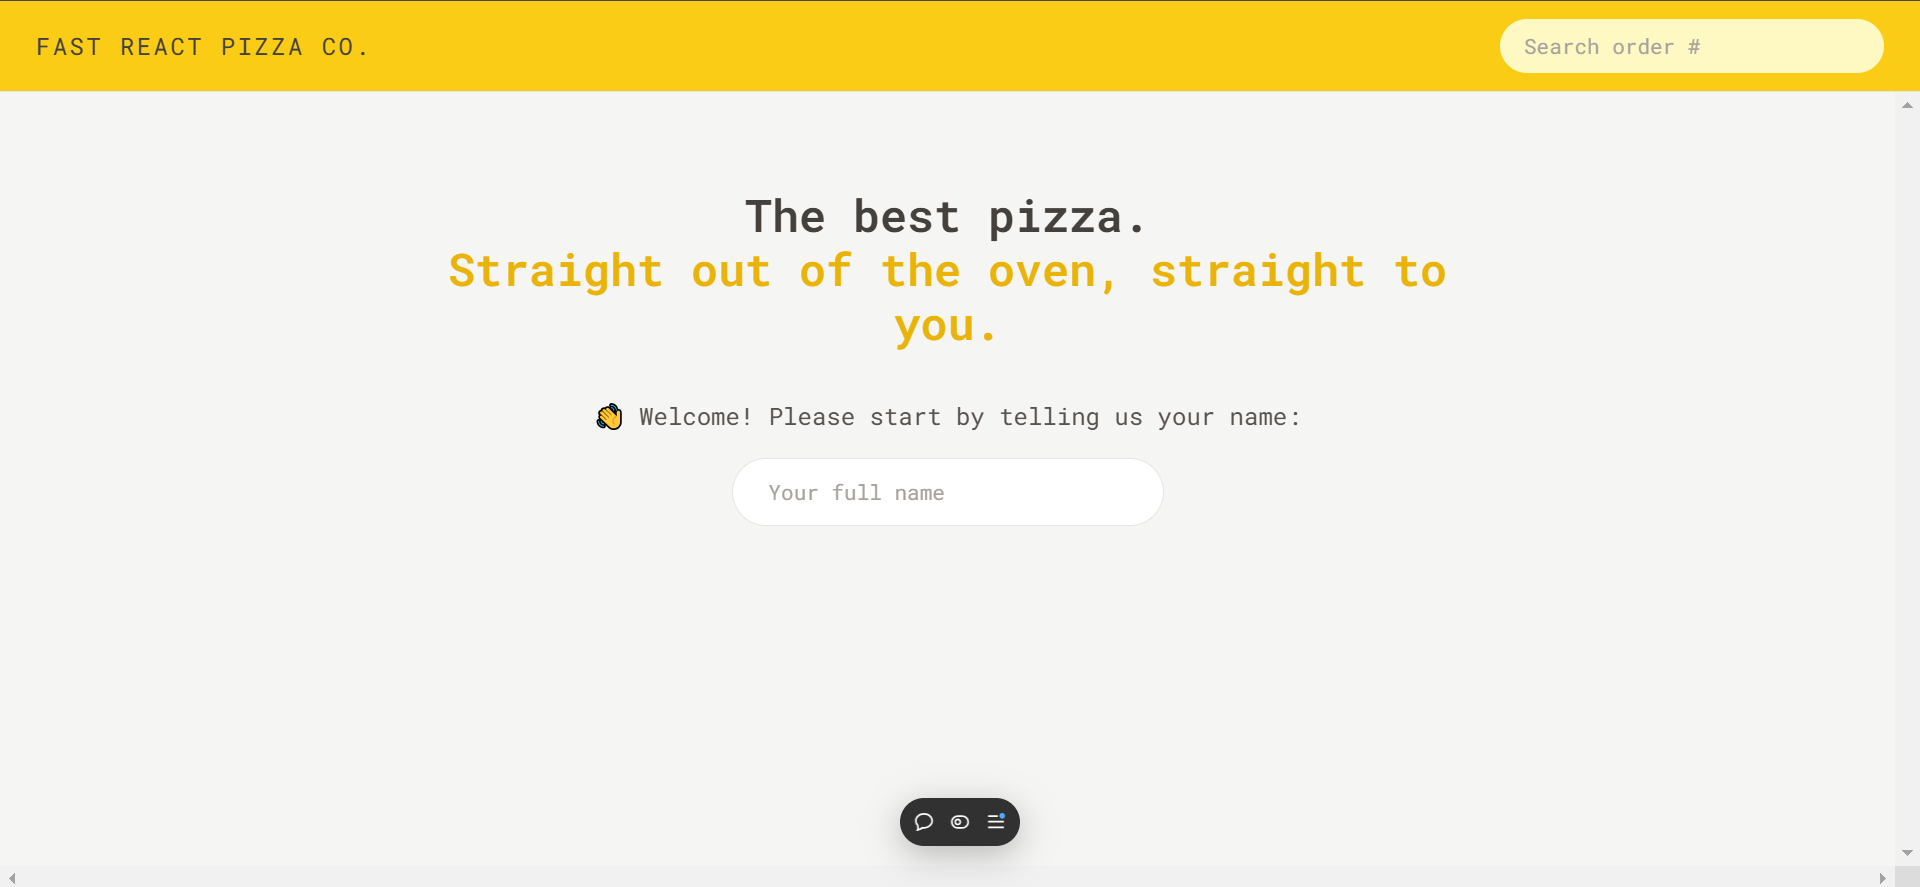
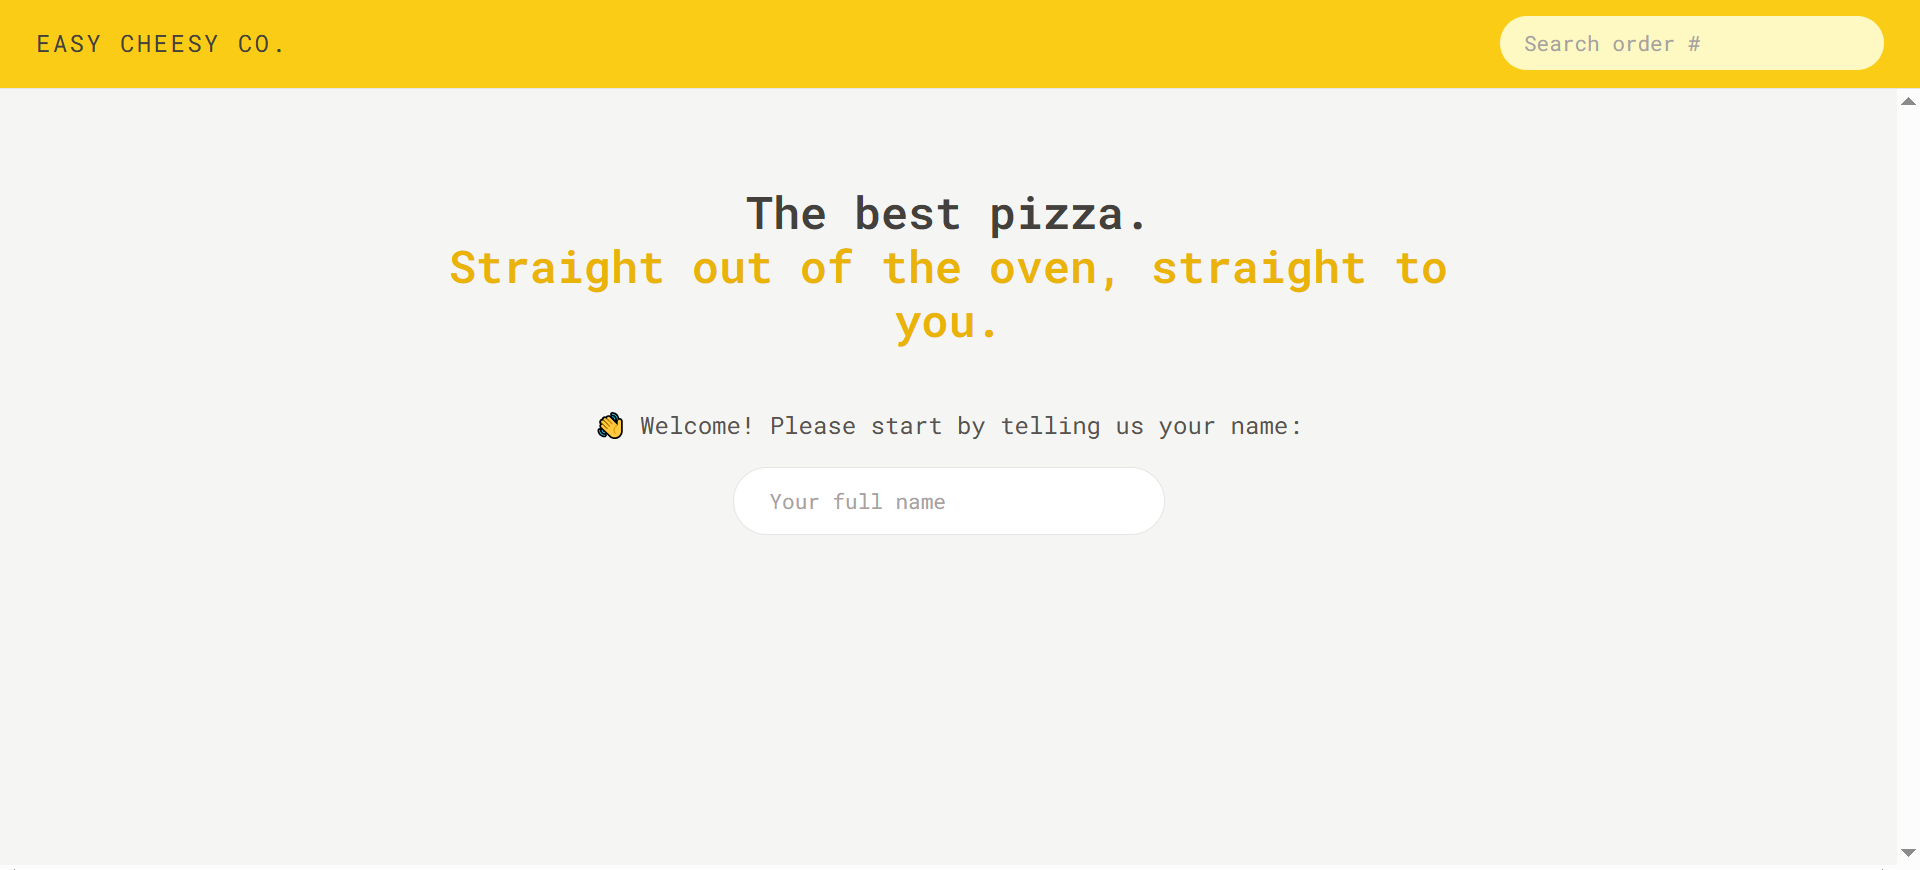
Easy Cheesy

diff --git a/README.md b/README.md
@@ -1,4 +1,4 @@
-# EasyCheesy | Pizza ordering app.
+# Easy Cheesy Co. | Pizza ordering app.
 
 <img src="./public/easycheesy.png" style="height: 400px; width: 100%; border-radius: 10px" />
 
@@ -6,7 +6,7 @@
 
 ### Description:
 
-This EasyCheesy pizza ordering app offers a realistic ordering experience, allowing users to browse a pizza menu, customize orders, and complete transactions in a streamlined, interactive interface.
+This Easy Cheesy pizza ordering app offers a realistic ordering experience, allowing users to browse a pizza menu, customize orders, and complete transactions in a streamlined, interactive interface.
 
 ### Functionalities:
 
